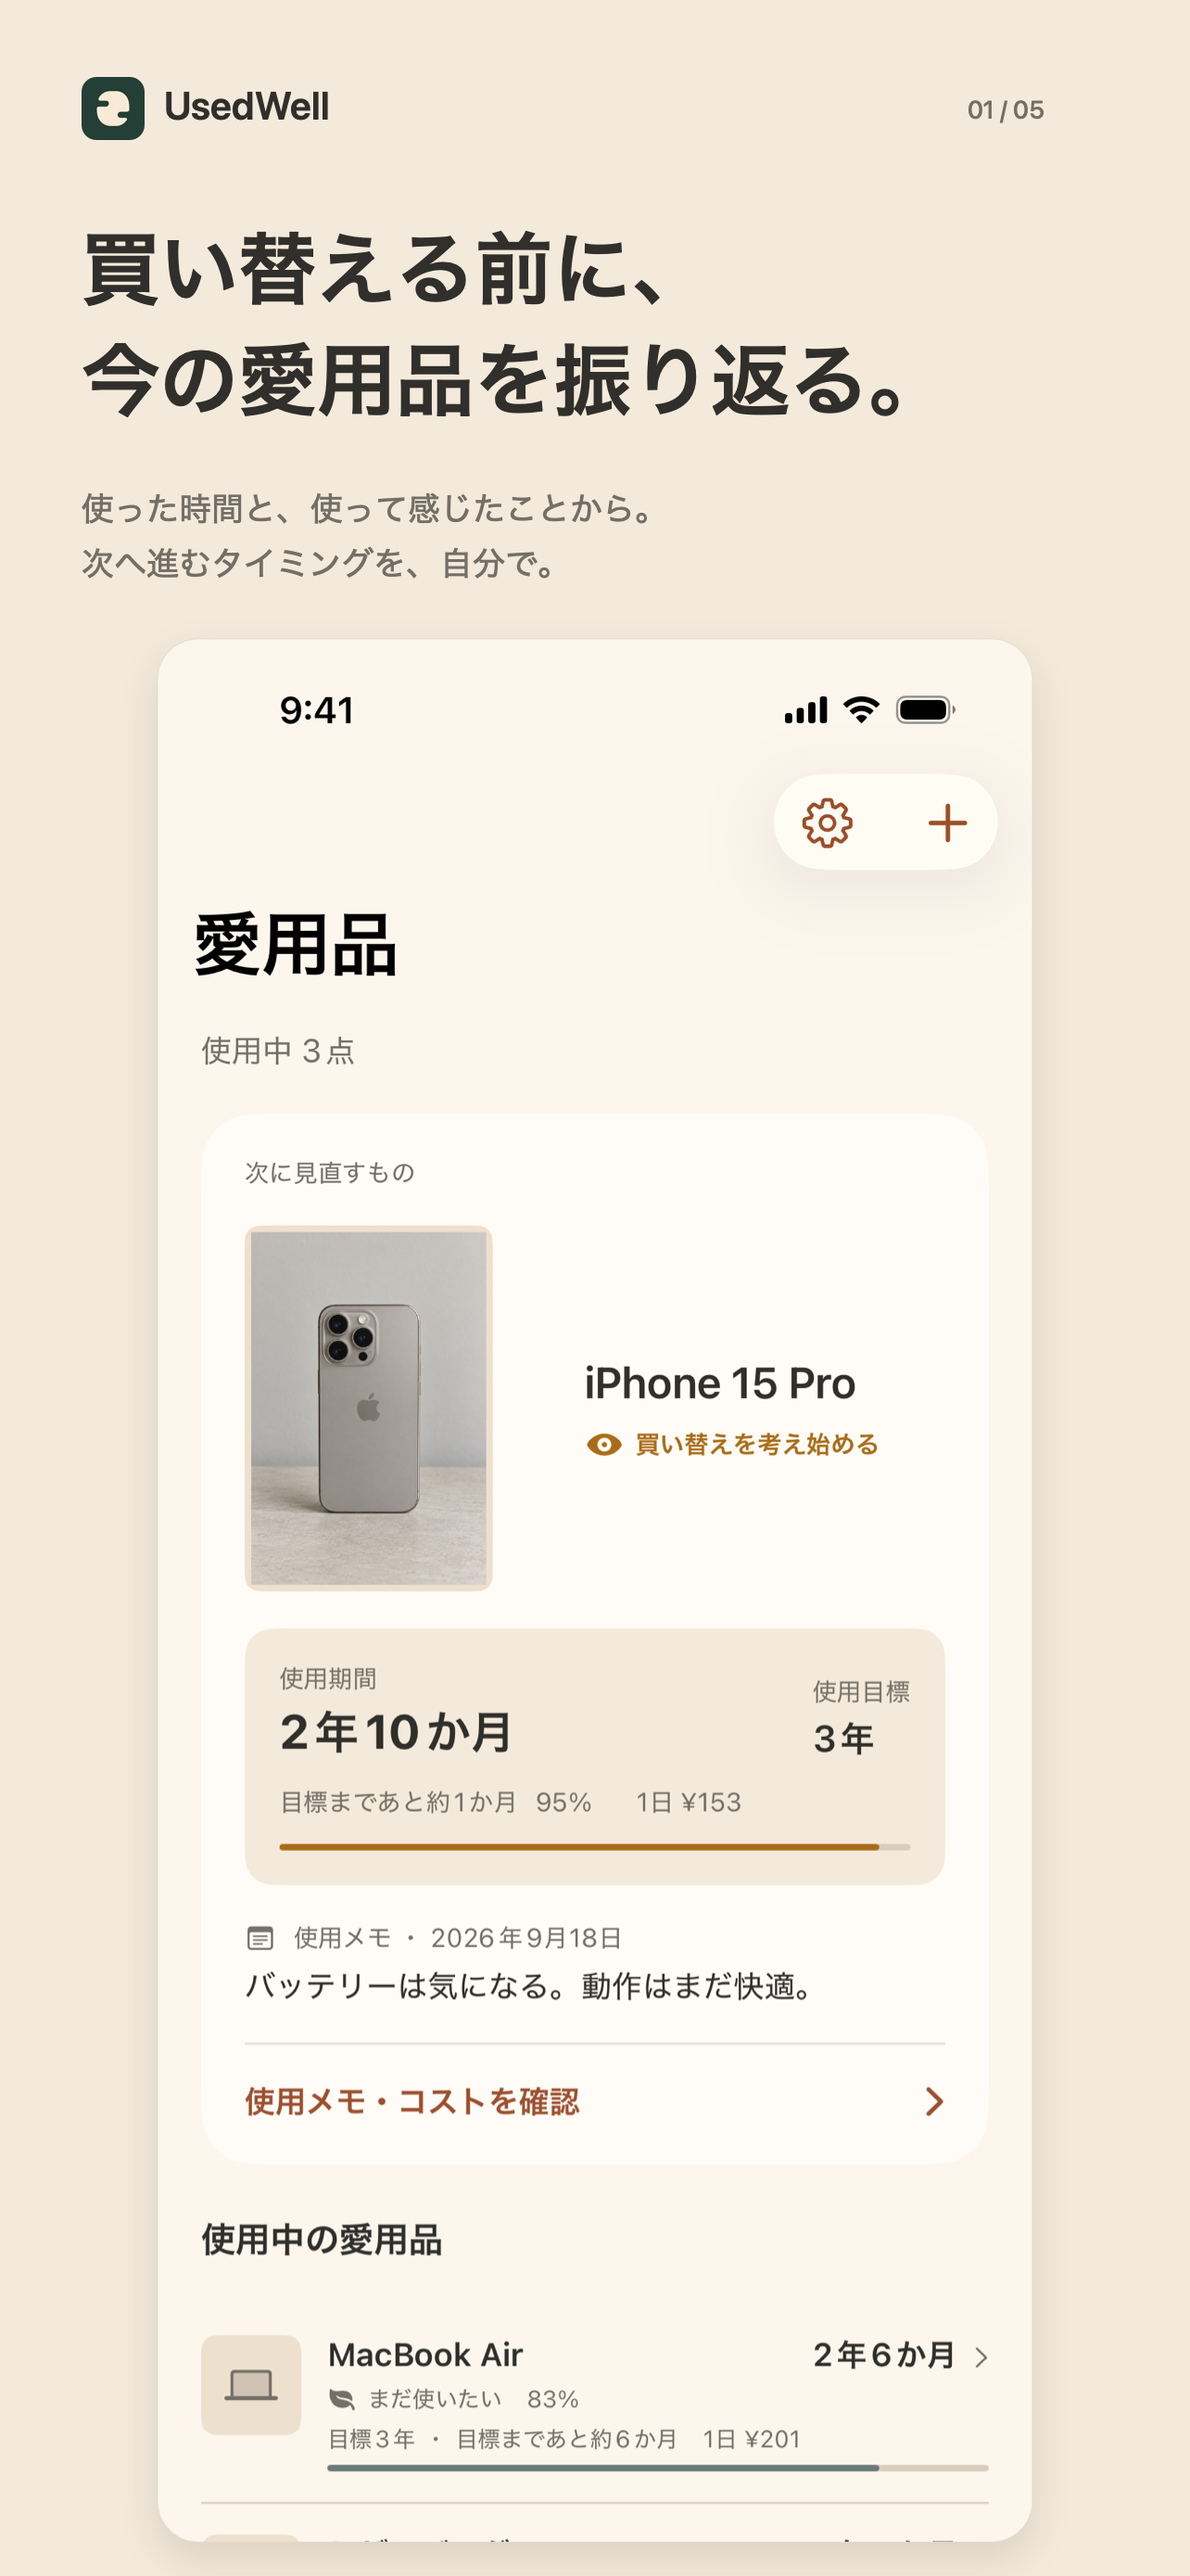
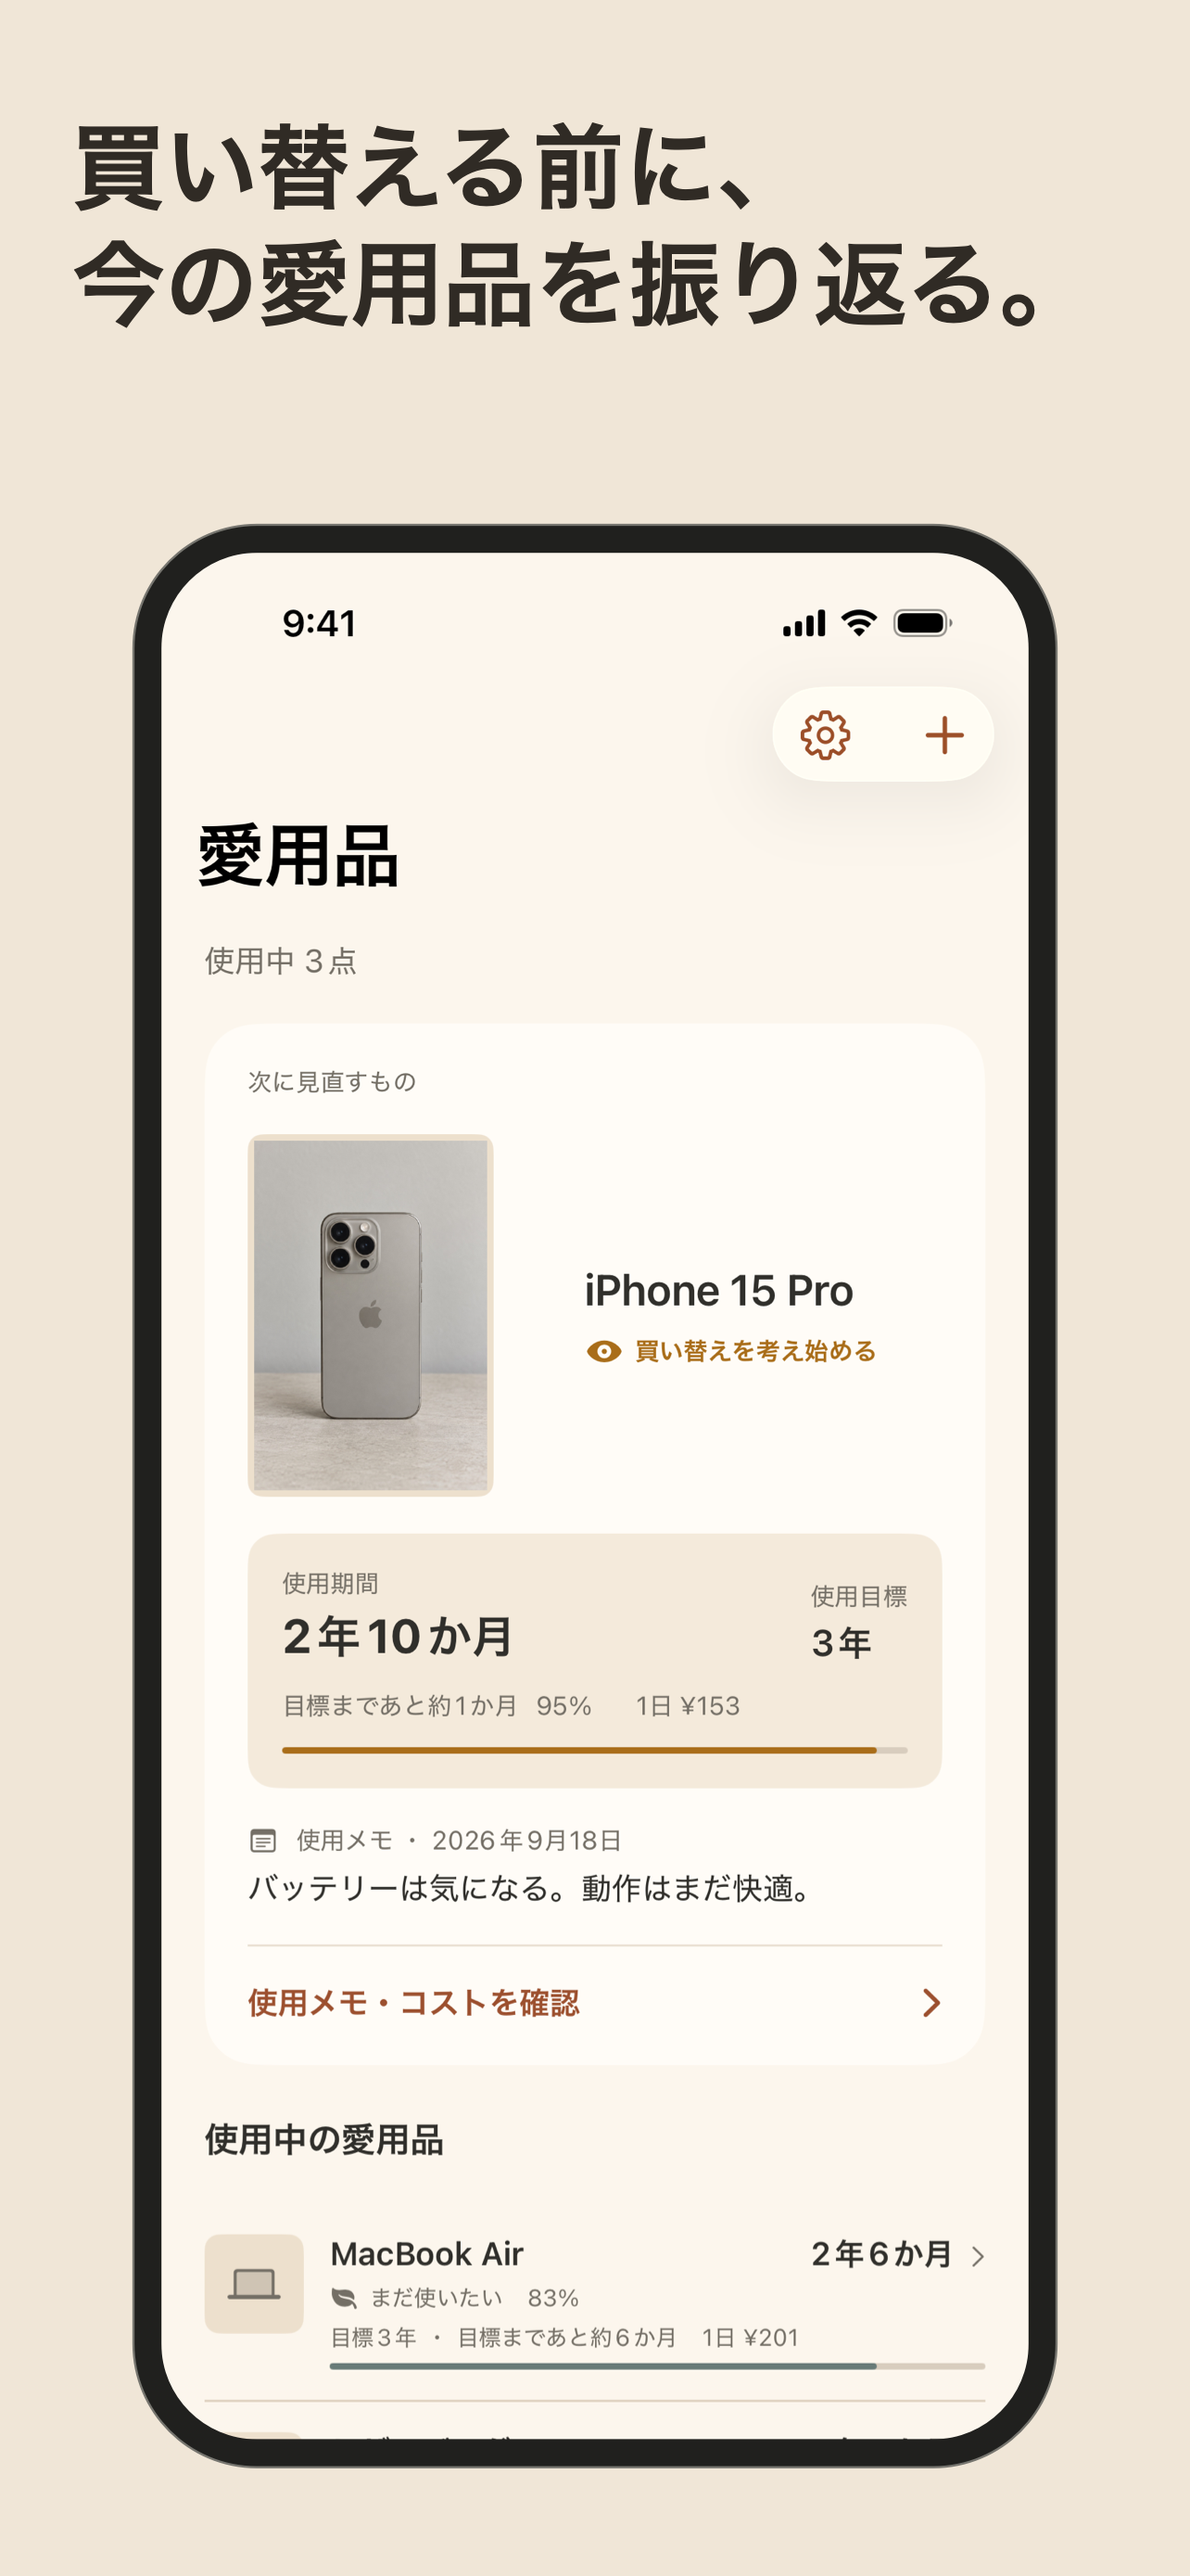
Produce D+ Store screenshots with framed runtime zooms

Changed region(s): [[0.0623, 0.031, 0.9034, 0.9597], [0.8411, 0.031, 0.8723, 0.0619], [0.0623, 0.1857, 0.0935, 0.2167]]

diff --git a/scripts/render-app-store.swift b/scripts/render-app-store.swift
@@ -1,4 +1,5 @@
 // Usage: swift scripts/render-app-store.swift <raw PNG directory> <output directory> <ja-JP|en-US>
+// D+ polished: full device context with floating runtime crops on slides 2, 3, and 5.
 // All app content comes from runtime captures. Only framing and Store copy are drawn.
 import AppKit
 
@@ -6,7 +7,6 @@ struct StoreSlide: Decodable {
   let name: String
   let headline: String
   let subcopy: String
-  let caption: String
 }
 
 let arguments = CommandLine.arguments
@@ -24,6 +24,9 @@ guard let slides = copy[locale], slides.count == 5 else {
 try FileManager.default.createDirectory(at: output, withIntermediateDirectories: true)
 let canvasWidth = 1284
 let canvasHeight = 2778
+let slideNames = ["01-hero", "02-progress", "03-notes", "04-themes", "05-cost"]
+precondition(slides.map(\.name) == slideNames, "Unexpected Store story or output names")
+let japanese = locale == "ja-JP"
 
 func color(_ hex: UInt32) -> NSColor {
   NSColor(
@@ -55,44 +58,78 @@ func runtime(_ name: String, crop: CGRect? = nil) -> NSImage {
 }
 
 func text(
-  _ string: String, left: CGFloat = 88, top: CGFloat, width: CGFloat = 1108,
+  _ string: String, left: CGFloat = 78, top: CGFloat, width: CGFloat = 1128,
   height: CGFloat, size: CGFloat, weight: NSFont.Weight = .regular, ink: NSColor,
-  spacing: CGFloat = 9
+  spacing: CGFloat = 26
 ) {
   let paragraph = NSMutableParagraphStyle()
   paragraph.lineSpacing = spacing
+  // Use macOS fonts so regeneration does not depend on downloaded fonts.
+  let font =
+    japanese
+    ? NSFont(name: weight == .regular ? "HiraginoSans-W3" : "HiraginoSans-W6", size: size)!
+    : NSFont.systemFont(ofSize: size, weight: weight)
   let attributed = NSAttributedString(
     string: string,
     attributes: [
-      .font: NSFont.systemFont(ofSize: size, weight: weight),
+      .font: font,
       .foregroundColor: ink, .paragraphStyle: paragraph
     ])
+  for line in string.components(separatedBy: "\n") {
+    let lineWidth = (line as NSString).size(withAttributes: [.font: font]).width
+    precondition(lineWidth <= width, "Store text wraps unexpectedly: \(line)")
+  }
   let bounds = attributed.boundingRect(
-    with: NSSize(width: width, height: 10_000), options: [.usesLineFragmentOrigin, .usesFontLeading]
+    with: NSSize(width: width, height: 10_000), options: [.usesLineFragmentOrigin]
   )
   precondition(bounds.height <= height, "Store text overflows: \(string)")
-  attributed.draw(in: rect(left, top, width, height))
+  attributed.draw(with: rect(left, top, width, height), options: [.usesLineFragmentOrigin])
 }
 
-func panel(_ image: NSImage, left: CGFloat, top: CGFloat, width: CGFloat, height: CGFloat? = nil) {
-  let scaledHeight = image.size.height * width / image.size.width
-  let frame = rect(left, top, width, height ?? scaledHeight)
-  let path = NSBezierPath(roundedRect: frame, xRadius: 44, yRadius: 44)
+func roundedImage(_ image: NSImage, frame: NSRect, radius: CGFloat) {
+  NSGraphicsContext.saveGraphicsState()
+  NSBezierPath(roundedRect: frame, xRadius: radius, yRadius: radius).addClip()
+  image.draw(in: frame)
+  NSGraphicsContext.restoreGraphicsState()
+}
+
+func device(_ image: NSImage, left: CGFloat, top: CGFloat, width: CGFloat) {
+  // Generic device silhouette, not Apple artwork or an illustration of a specific iPhone.
+  // No sensor housing, camera, hardware buttons, logos, or other Apple-specific details.
+  // https://developer.apple.com/app-store/marketing/guidelines/#section-product-images
+  let scale = width / 860
+  let inset = 26 * scale
+  let screenWidth = width - inset * 2
+  let screenHeight = screenWidth * image.size.height / image.size.width
+  let body = NSBezierPath(
+    roundedRect: rect(left, top, width, screenHeight + inset * 2),
+    xRadius: 115 * scale, yRadius: 115 * scale)
+  color(0x20201E).setFill()
+  body.fill()
+  color(0x76756F).setStroke()
+  body.lineWidth = 2 * scale
+  body.stroke()
+  roundedImage(
+    image, frame: rect(left + inset, top + inset, screenWidth, screenHeight), radius: 89 * scale)
+}
+
+func overlay(_ image: NSImage) {
+  let width: CGFloat = 1152
+  let height = image.size.height * width / image.size.width
+  let frame = rect(66, 2596 - height, width, height)
+  let path = NSBezierPath(roundedRect: frame, xRadius: 34, yRadius: 34)
   NSGraphicsContext.saveGraphicsState()
   let shadow = NSShadow()
-  shadow.shadowColor = NSColor.black.withAlphaComponent(0.11)
-  shadow.shadowBlurRadius = 44
-  shadow.shadowOffset = NSSize(width: 0, height: -18)
+  shadow.shadowColor = color(0x433524).withAlphaComponent(0.10)
+  shadow.shadowBlurRadius = 28
+  shadow.shadowOffset = NSSize(width: 0, height: -10)
   shadow.set()
-  color(0xFFFCF7).setFill()
+  color(0xFBF6ED).setFill()
   path.fill()
   NSGraphicsContext.restoreGraphicsState()
-  NSGraphicsContext.saveGraphicsState()
-  path.addClip()
-  image.draw(in: NSRect(x: left, y: frame.maxY - scaledHeight, width: width, height: scaledHeight))
-  NSGraphicsContext.restoreGraphicsState()
-  color(0xDED1BF).withAlphaComponent(0.6).setStroke()
-  path.lineWidth = 1
+  roundedImage(image, frame: frame, radius: 34)
+  color(0xBAA486).withAlphaComponent(0.7).setStroke()
+  path.lineWidth = 2.5
   path.stroke()
 }
 
@@ -109,52 +146,47 @@ func render(width: Int, height: Int, draw: () -> Void) -> NSBitmapImageRep {
   return NSBitmapImageRep(cgImage: context.makeImage()!)
 }
 
-let icon = imageAt(
-  scripts.deletingLastPathComponent().appendingPathComponent(
-    "UsedWell/Assets.xcassets/AppIcon.appiconset/AppIcon.png"))
 var finished: [NSImage] = []
 for (index, slide) in slides.enumerated() {
-  let forest = index == 2
-  let primary = color(forest ? 0x243F35 : 0x302F2B)
-  let secondary = color(forest ? 0x566A5A : 0x746F66)
-  let accent = color(forest ? 0x285342 : 0x9C502F)
   let bitmap = render(width: canvasWidth, height: canvasHeight) {
-    color(forest ? 0xE8EEE2 : 0xF4EADB).setFill()
+    color(0xF0E6D7).setFill()
     NSRect(x: 0, y: 0, width: canvasWidth, height: canvasHeight).fill()
-    NSGraphicsContext.saveGraphicsState()
-    NSBezierPath(roundedRect: rect(88, 83, 68, 68), xRadius: 16, yRadius: 16).addClip()
-    icon.draw(in: rect(88, 83, 68, 68))
-    NSGraphicsContext.restoreGraphicsState()
-    text("UsedWell", left: 177, top: 88, height: 64, size: 42, weight: .semibold, ink: primary)
     text(
-      String(format: "%02d / 05", index + 1), left: 1044, top: 102, width: 150,
-      height: 44, size: 27, weight: .medium, ink: secondary)
-    text(
-      slide.headline, top: 233, height: 260, size: index == 4 ? 86 : 92,
-      weight: .bold, ink: primary, spacing: 12)
-    text(slide.subcopy, top: 525, height: 158, size: 38, ink: secondary, spacing: 14)
+      slide.headline, top: index == 3 ? 100 : 130, height: 310,
+      size: index == 1 || index == 2 ? 108 : 100, weight: .semibold, ink: color(0x302B25))
+    if !slide.subcopy.isEmpty {
+      text(
+        slide.subcopy, left: 82, top: 493, width: 1120, height: 225, size: 80,
+        ink: color(0x675748))
+    }
     switch index {
     case 0:
-      panel(runtime("01-home"), left: 170, top: 689, width: 944)
+      device(runtime("01-home"), left: 144, top: 566, width: 996)
     case 1:
-      text(slide.caption, top: 790, height: 60, size: 30, weight: .medium, ink: accent)
-      panel(
-        runtime("01-home", crop: CGRect(x: 60, y: 651, width: 1086, height: 1458)),
-        left: 72, top: 929, width: 1140)
+      device(runtime("01-home"), left: 212, top: 854, width: 860)
+      // R4 crop: the entire photo, name, state, duration, goal, and 95% form one block.
+      overlay(runtime("01-home", crop: CGRect(x: 108, y: 792, width: 990, height: 936)))
     case 2:
-      panel(runtime("03-goal"), left: 170, top: 689, width: 944)
-    case 3:
-      text(slide.caption, top: 790, height: 60, size: 30, weight: .medium, ink: accent)
-      panel(
+      device(runtime("02-detail"), left: 212, top: 854, width: 860)
+      // English notes wrap to more lines; include all three notes at the same magnification.
+      overlay(
         runtime(
-          "02-detail",
-          crop: CGRect(x: 0, y: 429, width: 1206, height: locale == "en-US" ? 1764 : 1620)),
-        left: 72, top: 929, width: 1140)
+          "02-detail", crop: CGRect(x: 48, y: 1270, width: 1110, height: japanese ? 775 : 900)))
+    case 3:
+      for (offset, name, background, ink, capture) in [
+        (0, "Warm", UInt32(0xE6D7BE), UInt32(0x965334), "01-home"),
+        (624, "Forest", UInt32(0xD0DAC7), UInt32(0x234A3D), "04-home-forest")
+      ] {
+        color(background).setFill()
+        rect(offset == 0 ? 0 : 642, 730, 642, 2048).fill()
+        text(
+          name, left: CGFloat(64 + offset), top: 994, width: 550, height: 110,
+          size: 78, weight: .semibold, ink: color(ink))
+        device(runtime(capture), left: CGFloat(48 + offset), top: 1130, width: 564)
+      }
     default:
-      text(slide.caption, top: 790, height: 60, size: 30, weight: .medium, ink: accent)
-      panel(
-        runtime("05-cost", crop: CGRect(x: 0, y: 440, width: 1206, height: 1840)),
-        left: 72, top: 929, width: 1140)
+      device(runtime("05-cost"), left: 212, top: 854, width: 860)
+      overlay(runtime("05-cost", crop: CGRect(x: 48, y: 1590, width: 1110, height: 600)))
     }
   }
   try bitmap.representation(using: .png, properties: [:])!.write(
@@ -162,11 +194,16 @@ for (index, slide) in slides.enumerated() {
   finished.append(
     NSImage(cgImage: bitmap.cgImage!, size: NSSize(width: canvasWidth, height: canvasHeight)))
 }
-let sheet = render(width: 2000, height: 866) {
-  for (index, image) in finished.enumerated() {
-    image.draw(in: NSRect(x: index * 400, y: 0, width: 400, height: 866))
+for (name, width) in [
+  ("contact-sheet", 400), ("contact-sheet-240px", 240), ("contact-sheet-180px", 180)
+] {
+  let height = Int((Double(width) * Double(canvasHeight) / Double(canvasWidth)).rounded())
+  let sheet = render(width: width * 5, height: height) {
+    for (index, image) in finished.enumerated() {
+      image.draw(in: NSRect(x: index * width, y: 0, width: width, height: height))
+    }
   }
+  try sheet.representation(using: .png, properties: [:])!.write(
+    to: output.appendingPathComponent(name + ".png"))
 }
-try sheet.representation(using: .png, properties: [:])!.write(
-  to: output.appendingPathComponent("contact-sheet.png"))
-print("Rendered \(locale): five 1284 x 2778 sRGB PNGs and contact sheet")
+print("Rendered \(locale): five 1284 x 2778 sRGB PNGs and 400/240/180px contact sheets")

diff --git a/UsedWellUITests/AppStoreScreenshotTests.swift b/UsedWellUITests/AppStoreScreenshotTests.swift
@@ -36,6 +36,7 @@ final class AppStoreScreenshotTests: UIFlowTestCase {
     let prefix = "\(language)-\(region)"
     let app = launch(language: language, region: region, fixture: "store-home")
     XCTAssertTrue(app.buttons["featured-item"].label.contains("95%"))
+    let warmFeatured = app.buttons["featured-item"].label
     capture("\(prefix)-01-home", app: app)
     app.buttons["featured-item"].tap()
     XCTAssertTrue(app.buttons["edit-item"].waitForExistence(timeout: 5))
@@ -45,12 +46,10 @@ final class AppStoreScreenshotTests: UIFlowTestCase {
     capture("\(prefix)-04-notes", app: app)
     app.terminate()
 
-    let goal = launch(language: language, region: region, fixture: "store-goal", theme: "forest")
-    XCTAssertTrue(goal.buttons["featured-item"].label.contains("133%"))
-    XCTAssertTrue(
-      goal.buttons["featured-item"].label.contains(language == "ja" ? "目標達成" : "Goal reached"))
-    capture("\(prefix)-03-goal", app: goal)
-    goal.terminate()
+    let forest = launch(language: language, region: region, fixture: "store-home", theme: "forest")
+    XCTAssertEqual(forest.buttons["featured-item"].label, warmFeatured)
+    capture("\(prefix)-04-home-forest", app: forest)
+    forest.terminate()
 
     let cost = launch(language: language, region: region, fixture: "store-cost")
     cost.buttons["featured-item"].tap()
